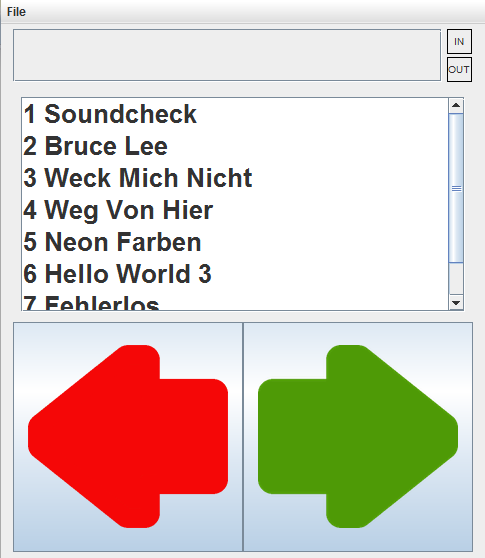
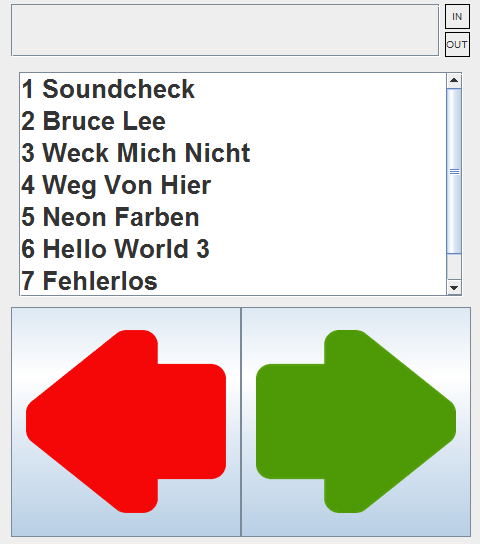
Change scrolling of set list so that the actual entry stays on top #30 on Windows

diff --git a/Midi Automator/src/test/java/com/midi_automator/tests/FunctionalTests/GUIAutomationFunctionalITCase.java b/Midi Automator/src/test/java/com/midi_automator/tests/FunctionalTests/GUIAutomationFunctionalITCase.java
@@ -1,6 +1,30 @@
 package com.midi_automator.tests.FunctionalTests;
 
-import static com.midi_automator.tests.utils.GUIAutomations.*;
+import static com.midi_automator.tests.utils.GUIAutomations.addAutomation;
+import static com.midi_automator.tests.utils.GUIAutomations.automationsDelayCell;
+import static com.midi_automator.tests.utils.GUIAutomations.cancelDialog;
+import static com.midi_automator.tests.utils.GUIAutomations.cancelMidiLearnAutomation;
+import static com.midi_automator.tests.utils.GUIAutomations.clickAutomationMovableCheckBox;
+import static com.midi_automator.tests.utils.GUIAutomations.clickNextFile;
+import static com.midi_automator.tests.utils.GUIAutomations.deleteAutomation;
+import static com.midi_automator.tests.utils.GUIAutomations.getFileList;
+import static com.midi_automator.tests.utils.GUIAutomations.getGUIAutomationTable;
+import static com.midi_automator.tests.utils.GUIAutomations.midiLearnAutomation;
+import static com.midi_automator.tests.utils.GUIAutomations.midiUnLearnAutomation;
+import static com.midi_automator.tests.utils.GUIAutomations.moveUpEntry;
+import static com.midi_automator.tests.utils.GUIAutomations.openAddDialog;
+import static com.midi_automator.tests.utils.GUIAutomations.openEntryByDoubleClick;
+import static com.midi_automator.tests.utils.GUIAutomations.openPreferences;
+import static com.midi_automator.tests.utils.GUIAutomations.robot;
+import static com.midi_automator.tests.utils.GUIAutomations.saveDialog;
+import static com.midi_automator.tests.utils.GUIAutomations.setAutomationMinDelay;
+import static com.midi_automator.tests.utils.GUIAutomations.setAutomationMinSimilarity;
+import static com.midi_automator.tests.utils.GUIAutomations.setAutomationScanRate;
+import static com.midi_automator.tests.utils.GUIAutomations.setAutomationTimeout;
+import static com.midi_automator.tests.utils.GUIAutomations.setAutomationTrigger;
+import static com.midi_automator.tests.utils.GUIAutomations.setAutomationType;
+import static com.midi_automator.tests.utils.GUIAutomations.spinDownAutomationDelaySpinner;
+import static com.midi_automator.tests.utils.GUIAutomations.spinUpAutomationDelaySpinner;
 
 import java.awt.Point;
 
@@ -79,7 +103,7 @@ public class GUIAutomationFunctionalITCase extends FunctionalBaseCase {
 			Thread.sleep(8000);
 
 			// search clicked Midi Automator
-			getFileList().requireSelectedItems(5);
+			getFileList().requireSelectedItems(6);
 
 			// change view of Midi Automator
 			moveUpEntry(5);
@@ -100,7 +124,7 @@ public class GUIAutomationFunctionalITCase extends FunctionalBaseCase {
 			Thread.sleep(5000);
 
 			// search clicked Midi Automator
-			getFileList().requireSelectedItems(6);
+			getFileList().requireSelectedItems(7);
 
 		} catch (InterruptedException | InvalidMidiDataException
 				| MidiUnavailableException e) {
@@ -148,17 +172,17 @@ public class GUIAutomationFunctionalITCase extends FunctionalBaseCase {
 
 			// check if add dialog was canceled
 			FrameFixture addFrame = openAddDialog();
-			Thread.sleep(5000);
+			Thread.sleep(6000);
 			addFrame.requireNotVisible();
 
 			// check if add dialog was canceled again
 			addFrame = openAddDialog();
-			Thread.sleep(5000);
+			Thread.sleep(6000);
 			addFrame.requireNotVisible();
 
 			// check if add dialog was canceled again
 			addFrame = openAddDialog();
-			Thread.sleep(5000);
+			Thread.sleep(6000);
 			addFrame.requireNotVisible();
 
 		} catch (InterruptedException e) {

diff --git a/Midi Automator/src/test/java/com/midi_automator/tests/FunctionalTests/FileListFunctionalITCase.java b/Midi Automator/src/test/java/com/midi_automator/tests/FunctionalTests/FileListFunctionalITCase.java
@@ -1,7 +1,8 @@
 package com.midi_automator.tests.FunctionalTests;
 
-import static com.midi_automator.tests.utils.GUIAutomations.*;
-import static org.junit.Assert.*;
+import static com.midi_automator.tests.utils.GUIAutomations.clickPrevFile;
+import static com.midi_automator.tests.utils.GUIAutomations.openEntryByDoubleClick;
+import static org.junit.Assert.fail;
 
 import org.junit.Test;
 

diff --git a/Midi Automator/src/main/java/com/midi_automator/view/frames/MainFrame.java b/Midi Automator/src/main/java/com/midi_automator/view/frames/MainFrame.java
@@ -85,7 +85,7 @@ public class MainFrame extends JFrame {
 
 	private final String TITLE = "Midi Automator";
 	private final int WIDTH = 500;
-	private final int HEIGHT = 600;
+	private final int HEIGHT = 610;
 	public static final int TEST_POSITION_X = 0;
 	public static final int TEST_POSITION_Y = 50;
 	private final int MAIN_LAYOUT_HORIZONTAL_GAP = 10;
